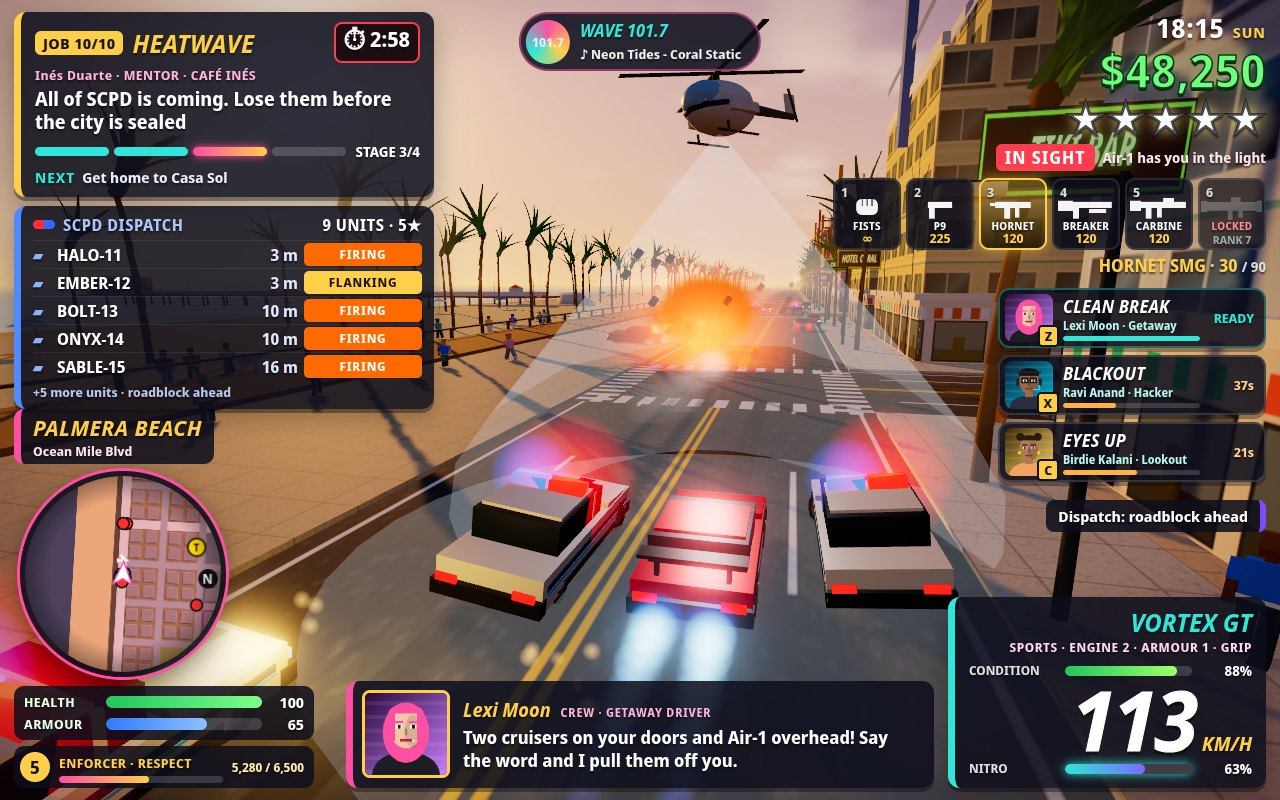
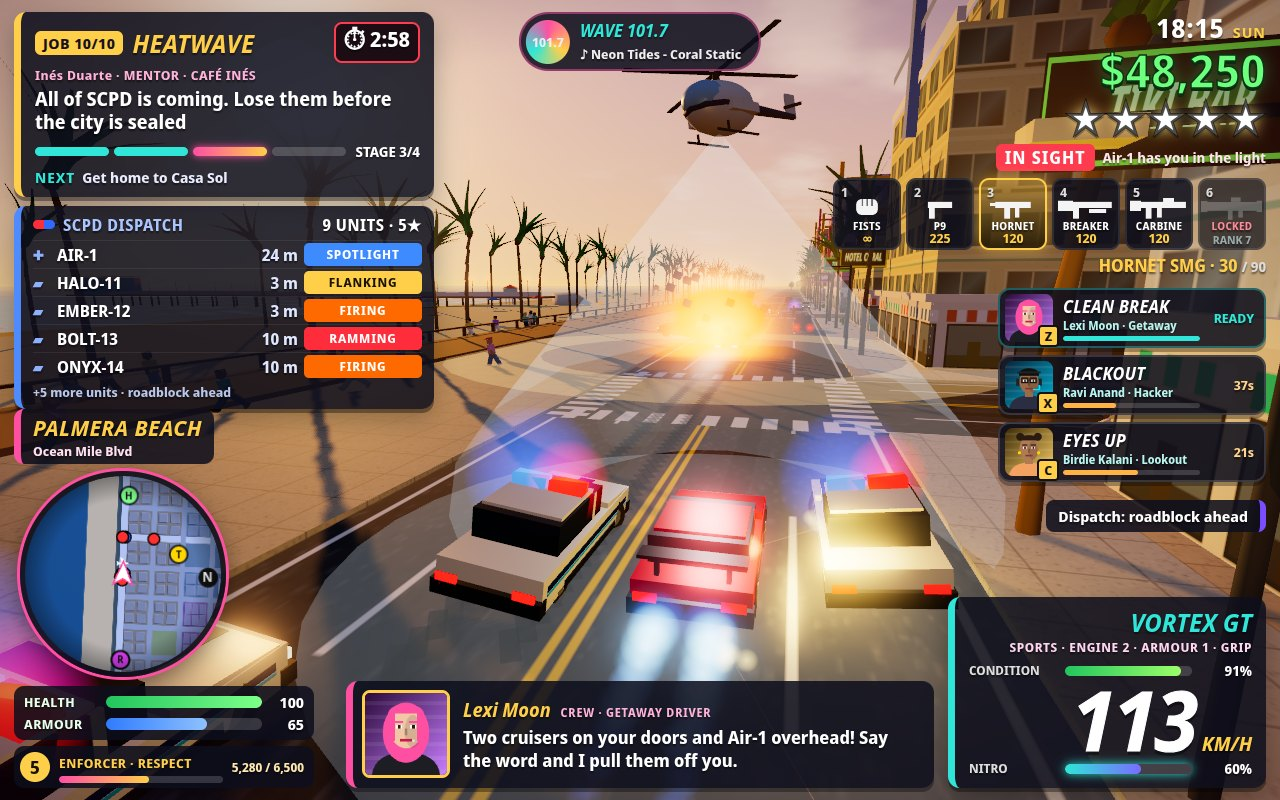
Critique pass 2: low sun in frame, burning wreck, closer shootout
Sunset azimuth runs closer to the boulevard so the low sun disc and its
glow sit over the beach in the cover; the burning cruiser moves to the
left lane. Burning cars throw real flames. Shootout gunmen closer, the
crowd flees in frame and the hero is no longer washed by his own flash.

diff --git a/game/src/debug/shotDirector.js b/game/src/debug/shotDirector.js
@@ -89,14 +89,13 @@ export async function stageShot(game, name, title) {
     game.weapons.select(2);
     clearAround(game, -70, 400, 60);
     const goons = game.missions.context().enemies;
-    const spots = [[-80, 396.5], [-76.5, 403.5], [-71, 399.5], [-68, 408.5], [-64, 394], [-83, 391.5]];
+    const spots = [[-83, 396.5], [-80, 403.8], [-76, 399.5], [-73.5, 409], [-70, 394], [-86, 391.5]];
     goons[4].damage(999, P.x, P.z); goons[5].damage(999, P.x, P.z);
     const pin = () => goons.forEach((g, i) => { g.x = spots[i][0]; g.z = spots[i][1]; g.alerted = true; g.heading = -Math.PI / 2; });
     pin();
-    const wreck = vehicles.spawn('muscle', -73, 405.5, 0.5, { parked: true, color: '#1d3557' });
+    const wreck = vehicles.spawn('muscle', -70, 402.6, 0.9, { parked: true, color: '#1d3557' });
     wreck.condition = 0; wreck.burnTimer = -100;
     vehicles.spawn('van', -62, 392.8, Math.PI / 2, { parked: true, color: '#4cc9f0' });
-    crowd(game, 10, -90, 3.4, [410.5, 412, 389.5], -74, 400);
     game.wanted.setLevel(2);
     const unit = police.spawnUnitNear(-30, 398, -Math.PI / 2);
     unit.vehicle.vx = -12;
@@ -120,7 +119,8 @@ export async function stageShot(game, name, title) {
     game.traffic.spawnOnLane(114, 115, 0, 0.55, 'taxi');
     game.traffic.spawnOnLane(115, 114, 1, 0.62, 'suv');
     game.traffic.spawnOnLane(114, 115, 1, 0.8, 'sedan');
-    simulate(game, 0.25, () => { pin(); player.hero.x = P.x; player.hero.z = P.z; });
+    crowd(game, 12, -91, 2.6, [410.8, 412.3, 389.6], -78, 400);
+    simulate(game, 0.35, () => { pin(); player.hero.x = P.x; player.hero.z = P.z; });
     // A last exchange so muzzle flashes and tracers from both sides are in the frame.
     const nearMiss = { x: P.x + 4, y: -1.1, z: P.z + 3 };
     shoot(player.hero, goons[0], { byPlayer: true });
@@ -129,7 +129,6 @@ export async function stageShot(game, name, title) {
     shoot(goons[2], nearMiss, { friendly: true, damageScale: 0 });
     game.update(STEP);
     shoot(goons[3], nearMiss, { friendly: true, damageScale: 0 });
-    shoot(player.hero, goons[2], { byPlayer: true });
     game.update(STEP);
     player.hero.health = 88;
     game.dialogue.hold('lexi', 'Hale sold you out, Santi! Six Kroll guards on the boardwalk and Birdie has them painted.');
@@ -139,7 +138,7 @@ export async function stageShot(game, name, title) {
   // nitro away from the camera with two SCPD cruisers on its doors and more behind, Air-1's
   // searchlight on the roof, a rammed cruiser burning up the road and a roadblock beyond.
   progress(game, 9);
-  game.sky.setHour(18.25);
+  game.sky.setHour(18.55);
   const Z = 398.1, X0 = 150;
   player.teleport(X0, Z + 8);
   game.startPlay();
@@ -150,7 +149,7 @@ export async function stageShot(game, name, title) {
   game.radio.set(0);
   game.hud.holdRadio();
   // Formation, offsets in metres behind (+x) and beside (z) the player's car.
-  const pack = [[0.2, 3.4], [-1.4, -3.2], [7.5, 6.2], [8.5, -4.8], [16, 1.5], [-48, 4.2]];
+  const pack = [[0.2, 3.4], [-1.4, -3.2], [7.5, 6.2], [8.5, -4.8], [16, 1.5], [-36, 6.8]];
   const units = pack.map(([dx, dz]) => police.spawnUnitNear(X0 + dx, Z + dz, -Math.PI / 2));
   police.helicopter.spawn(true);
   game.traffic.spawnOnLane(114, 115, 0, 0.55, 'sedan');

diff --git a/game/src/vehicles/vehicleManager.js b/game/src/vehicles/vehicleManager.js
@@ -161,7 +161,7 @@ export function createVehicleManager(game) {
           if (v.condition < 45 && game.rng.next() < dt * (v.condition < 25 ? 14 : 6)) game.particles.emit(v.condition < 25 ? 'blacksmoke' : 'smoke', hx, v.y + 1.2, hz, 1, { scale: 0.6 });
           if (v.condition <= 0) {
             v.burnTimer += dt;
-            if (game.rng.next() < dt * 30) game.particles.emit('flame', hx, v.y + 1.1, hz, 1, { jitter: 0.8 });
+            if (game.rng.next() < dt * 30) game.particles.emit(game.rng.next() < 0.5 ? 'fire' : 'flame', hx, v.y + 1.1, hz, 1, { jitter: 0.7 });
             if (v.burnTimer > 3.5) mgr.explode(v);
           }
         } else if (game.rng.next() < dt * 10 && v.age < 9999) {

diff --git a/game/src/world/skyAndLighting.js b/game/src/world/skyAndLighting.js
@@ -110,7 +110,7 @@ export function createSkyAndLighting(renderer, scene) {
     const h = out.hour;
     const theta = (Math.PI * (h - 6)) / 14;
     const elev = Math.sin(theta);
-    out.sunDir.set(Math.cos(theta), Math.max(elev, -0.2) * 0.85, 0.35 + 0.55 * clamp(theta / Math.PI, 0, 1)).normalize();
+    out.sunDir.set(Math.cos(theta), Math.max(elev, -0.2) * 0.85, 0.2 + 0.3 * clamp(theta / Math.PI, 0, 1)).normalize();
     out.nightFactor = clamp(1 - (elev + 0.05) / 0.25, 0, 1);
     skyMat.uniforms.top.value.copy(blend(1, 'color'));
     skyMat.uniforms.horizon.value.copy(blend(2, 'color'));
